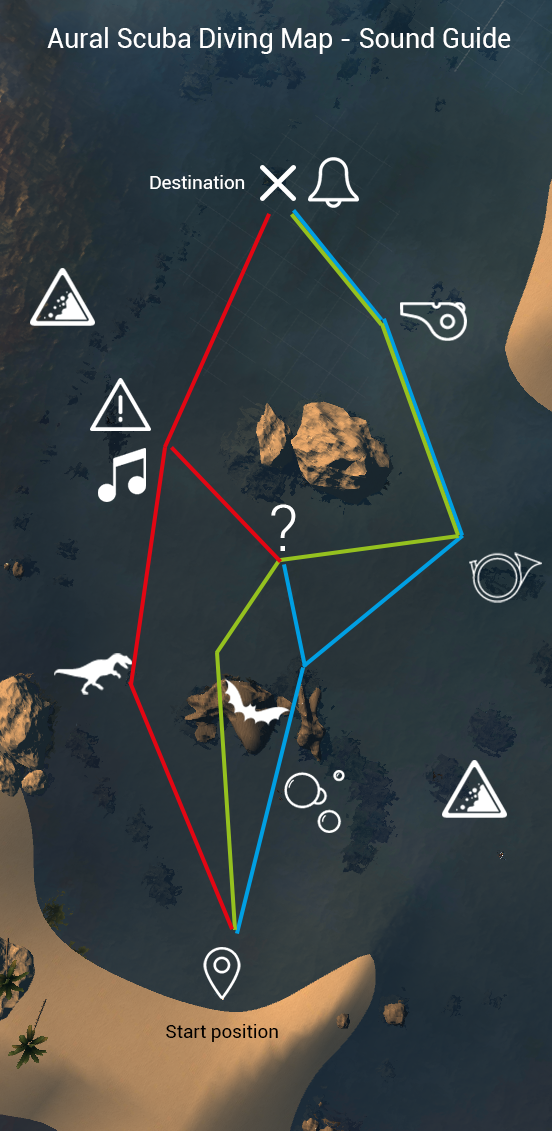
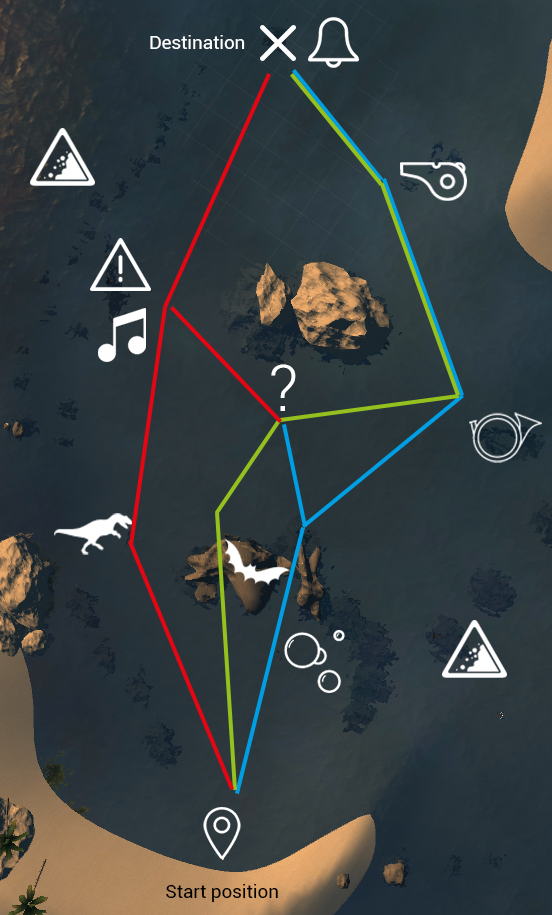
Recenter function, sound guide image now without title

diff --git a/Assets/Scripts/Map.cs b/Assets/Scripts/Map.cs
@@ -18,16 +18,18 @@ public class Map : MonoBehaviour
 
     void Update()
     {
-		if (Input.GetKeyDown("joystick button 0") || Input.GetKeyDown("m"))
-        {
+		if (Input.GetKeyDown("joystick button 0") || Input.GetKeyDown("m") || Cardboard.SDK.Triggered==true)	{
             visible = !visible;
         } 
 
-		if (Input.GetKeyDown("joystick button 1") || Input.GetKeyDown("r"))
-		{
+		if (Input.GetKeyDown("joystick button 1") || Input.GetKeyDown("r"))	{
 			Cardboard.SDK.VRModeEnabled = !Cardboard.SDK.VRModeEnabled;
 		}
-    }
+
+		if (Input.GetKeyDown ("joystick button 2") || Input.GetKeyDown ("c")) {
+			Cardboard.SDK.Recenter();
+		}
+	}
 
     void OnGUI()
     {
